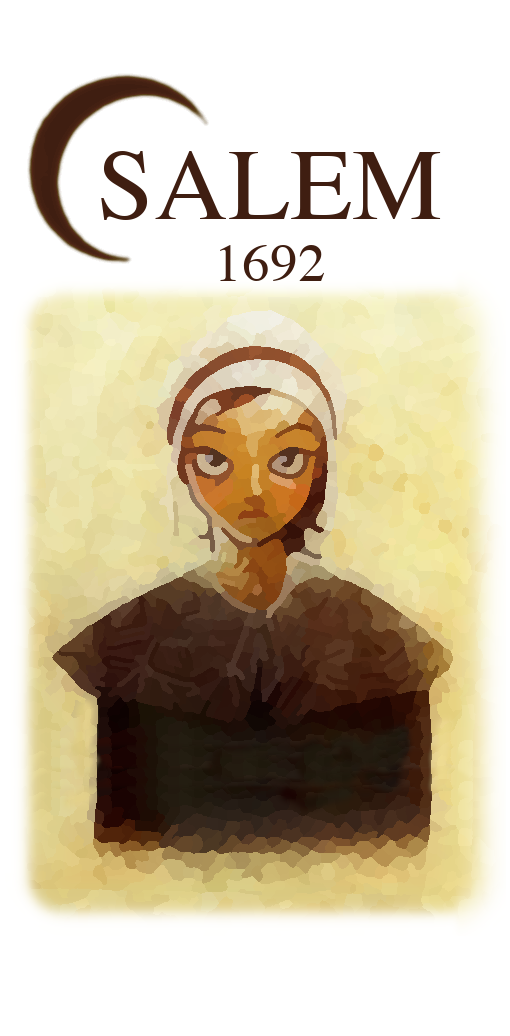
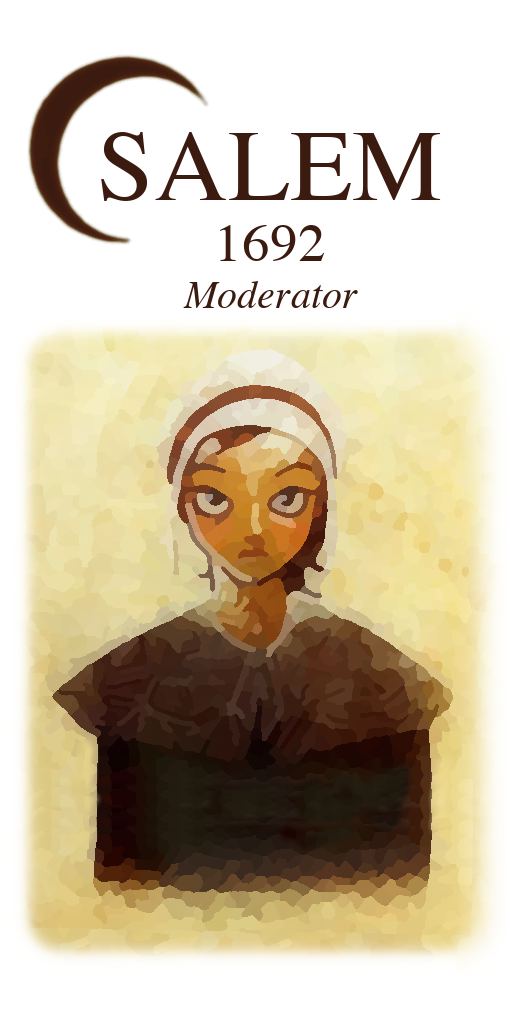
Updated title screen with "Moderator"

diff --git a/css/salem.min.css b/css/salem.min.css
@@ -1,1 +1,1 @@
-@font-face{font-family:CaslonAntique;src:url(../fonts/CaslonAntique.ttf);font-weight:500}@font-face{font-family:CaslonAntique;src:url(../fonts/CaslonAntique-Bold.ttf);font-weight:800}*{margin:0;padding:0}body{height:100vh;width:100vw;overflow:hidden;font-family:CaslonAntique,'Times New Roman',Times,serif;font-size:26px}h1{font-size:64px;font-weight:700;margin-top:20px;margin-bottom:10px}h2{margin-top:10px;margin-bottom:0}.h2-no-margin,h2{font-size:40px;font-weight:700}img.sound-image{margin:50px 0 30px 0}input[type=text]{background-color:#faf8ea;border:2px solid #000;padding-left:5px;font-family:inherit;font-size:28px;width:50%}input[type=text]::placeholder{font-style:italic;color:#bbb}.flex-vertical{display:flex;justify-content:flex-start;align-items:center;flex-direction:column}.spacer{height:25px;min-height:25px}#root{background:url(../images/background-daytime.png) center/cover no-repeat;width:100%;height:100%}div.text-padding{padding:20px;width:calc(100% - 40px);height:calc(100% - 40px)}div.paragraph{margin:10px 20px;line-height:1.15}.nl_NL .page .condensed_nl{font-size:24px}.page{position:absolute;left:0;top:0;width:100%;height:100%;overflow-y:auto;color:#361807}.page button{width:50%;height:40px;font-size:26px;background-color:#eac672;border-width:2px;border-color:#361807;box-shadow:0 10px 20px #00000030,0 6px 6px #0000003b}.page button.widebutton{width:80%;margin-bottom:24px}.page button,.page button.largebutton,.page button.squarebutton{margin-bottom:32px;font-family:inherit;background-repeat:no-repeat}.page button.spacer-top{margin-top:25px}.page button.rotated{transform:rotate(180deg)}.page button.largebutton{width:80%;height:100px}.page button.squarebutton{justify-self:center;margin:10px 5%;width:80%;height:80px}.page button.largebutton.confirm-yes{font-size:80px;color:#172;background-image:url(../images/confirm-yes.png);background-repeat:no-repeat;background-position:center center}.page button.largebutton.confirm-no{font-size:80px;color:#a24;background-image:url(../images/confirm-no.png);background-repeat:no-repeat;background-position:center center}.page button.icon-left{padding-left:24px;background-position:20px center}.page button.icon-right{padding-right:24px;background-position:calc(100% - 20px) center}.page button.icon-only,.page div.button-sized{background-position:center center;width:42px;padding-left:0;padding-right:0;margin-bottom:0}.page button.flag-nl{background-image:url(../images/flag-nl.png)}.page button.flag-de{background-image:url(../images/flag-de.png)}.page button.flag-us{background-image:url(../images/flag-us.png)}.page button.flag-fr{background-image:url(../images/flag-fr.png)}.page button.flag-es{background-image:url(../images/flag-es.png)}.page button.flag-it{background-image:url(../images/flag-it.png)}.page button.icon-pawn{background-image:url(../images/icon-pawn.png)}.page button.icon-gear{background-image:url(../images/icon-gear.png)}.page button.icon-lang{background-image:url(../images/icon-lang.png)}.page button.icon-back{background-image:url(../images/icon-back.png)}.page button.icon-forw{background-image:url(../images/icon-forw.png)}.page button.icon-move{background-image:url(../images/icon-move.png)}.page button.icon-exit{background-image:url(../images/icon-exit.png)}.page button.icon-rot{background-image:url(../images/icon-rot.png)}.page button.icon-trash{background-image:url(../images/icon-cross.png)}.page button.icon-abort{background-image:url(../images/icon-cross.png)}.page button.icon-checked{background-image:url(../images/icon-checked.png)}.page button.icon-unchecked{background-image:url(../images/icon-unchecked.png)}.page button.icon-left.icon-checked,.page button.icon-left.icon-unchecked{background-position:16px center}.buttonpair{width:80%;display:flex;justify-content:space-between}.buttonpair button{width:46%}#title-page{background:url(../images/overlay-title.png) center/contain no-repeat;justify-content:flex-end}#title-page button{margin-bottom:25px}#title-page button.last{margin-bottom:125px}#setup-page{background:url(../images/overlay-gear.png) -190px 120px no-repeat;padding-top:20px}#setup-music-page{background:url(../images/overlay-lute.png) -100px 120px no-repeat}#setup-players-page{background:url(../images/overlay-pawn.png) -190px 120px no-repeat}#setup-players-page .player-entry-item{display:flex;justify-content:space-between;margin-bottom:20px;width:80%}#setup-players-page .player-entry-item .staggered{position:relative;top:31px}#layout-list{width:100%;display:grid;grid-template-columns:1fr 1fr}#layout-list button.squarebutton{text-align:center;vertical-align:middle;line-height:0}#layout-list button.squarebutton.layout-1222::after{content:url(../images/tablelayout-1222.png)}#layout-list button.squarebutton.layout-2221::after{content:url(../images/tablelayout-2221.png)}#layout-list button.squarebutton.layout-1221::after{content:url(../images/tablelayout-1221.png)}#layout-list button.squarebutton.layout-2222::after{content:url(../images/tablelayout-2222.png)}#credits-page{background:url(../images/overlay-scroll.png) -290px 120px no-repeat;width:100%}#credits-page p::first-line{text-indent:0}#credits-page p{width:100%;margin:0;padding-left:20px;text-indent:-20px}#credits-page p span:first-child{font-style:italic}#daytime-page{background:url(../images/overlay-village.png) 90% 20vh/auto 80vh no-repeat}#night-page{background:url(../images/background-night.png) center/cover no-repeat}#night-subpage{background:url(../images/overlay-night.png) top/contain no-repeat;color:#eee}#player-list{width:100%;display:grid;grid-template-columns:1fr 1fr}#player-list .grid-wide{grid-column-start:1;grid-column-end:3;width:40%}#daytime-confess-page{background:url(../images/overlay-hourglass.png) -20vw/70vw no-repeat}
+@font-face{font-family:CaslonAntique;src:url(../fonts/CaslonAntique.ttf);font-weight:500}@font-face{font-family:CaslonAntique;src:url(../fonts/CaslonAntique-Bold.ttf);font-weight:800}*{margin:0;padding:0}body{height:100vh;width:100vw;overflow:hidden;font-family:CaslonAntique,'Times New Roman',Times,serif;font-size:26px}h1{font-size:64px;font-weight:700;margin-top:20px;margin-bottom:10px}h2{margin-top:10px;margin-bottom:0}.h2-no-margin,h2{font-size:40px;font-weight:700}img.sound-image{margin:50px 0 30px 0}input[type=text]{background-color:#faf8ea;border:2px solid #000;padding-left:5px;font-family:inherit;font-size:28px;width:50%}input[type=text]::placeholder{font-style:italic;color:#bbb}.flex-vertical{display:flex;justify-content:flex-start;align-items:center;flex-direction:column}.spacer{height:25px;min-height:25px}#root{background:url(../images/background-daytime.png) center/cover no-repeat;width:100%;height:100%}div.text-padding{padding:20px;width:calc(100% - 40px);height:calc(100% - 40px)}div.paragraph{margin:10px 20px;line-height:1.15}.nl_NL .page .condensed_nl{font-size:24px}.page{position:absolute;left:0;top:0;width:100%;height:100%;overflow-y:auto;color:#361807}.page button{width:50%;height:40px;font-size:26px;background-color:#eac672;border-width:2px;border-color:#361807;box-shadow:0 10px 20px #00000030,0 6px 6px #0000003b}.page button.widebutton{width:80%;margin-bottom:24px}.page button,.page button.largebutton,.page button.squarebutton{margin-bottom:32px;font-family:inherit;background-repeat:no-repeat}.page button.spacer-top{margin-top:25px}.page button.rotated{transform:rotate(180deg)}.page button.largebutton{width:80%;height:100px}.page button.squarebutton{justify-self:center;margin:10px 5%;width:80%;height:80px}.page button.largebutton.confirm-yes{font-size:80px;color:#172;background-image:url(../images/confirm-yes.png);background-repeat:no-repeat;background-position:center center}.page button.largebutton.confirm-no{font-size:80px;color:#a24;background-image:url(../images/confirm-no.png);background-repeat:no-repeat;background-position:center center}.page button.icon-left{padding-left:24px;background-position:20px center}.page button.icon-right{padding-right:24px;background-position:calc(100% - 20px) center}.page button.icon-only,.page div.button-sized{background-position:center center;width:42px;padding-left:0;padding-right:0;margin-bottom:0}.page button.flag-nl{background-image:url(../images/flag-nl.png)}.page button.flag-de{background-image:url(../images/flag-de.png)}.page button.flag-us{background-image:url(../images/flag-us.png)}.page button.flag-fr{background-image:url(../images/flag-fr.png)}.page button.flag-es{background-image:url(../images/flag-es.png)}.page button.flag-it{background-image:url(../images/flag-it.png)}.page button.icon-pawn{background-image:url(../images/icon-pawn.png)}.page button.icon-gear{background-image:url(../images/icon-gear.png)}.page button.icon-lang{background-image:url(../images/icon-lang.png)}.page button.icon-back{background-image:url(../images/icon-back.png)}.page button.icon-forw{background-image:url(../images/icon-forw.png)}.page button.icon-move{background-image:url(../images/icon-move.png)}.page button.icon-exit{background-image:url(../images/icon-exit.png)}.page button.icon-rot{background-image:url(../images/icon-rot.png)}.page button.icon-trash{background-image:url(../images/icon-cross.png)}.page button.icon-abort{background-image:url(../images/icon-cross.png)}.page button.icon-checked{background-image:url(../images/icon-checked.png)}.page button.icon-unchecked{background-image:url(../images/icon-unchecked.png)}.page button.icon-left.icon-checked,.page button.icon-left.icon-unchecked{background-position:16px center}.buttonpair{width:80%;display:flex;justify-content:space-between}.buttonpair button{width:46%}#title-page{background:url(../images/overlay-title.png) center/contain no-repeat;justify-content:flex-end}#title-page button{margin-bottom:25px}#title-page button.last{margin-bottom:100px}#setup-page{background:url(../images/overlay-gear.png) -190px 120px no-repeat;padding-top:20px}#setup-music-page{background:url(../images/overlay-lute.png) -100px 120px no-repeat}#setup-players-page{background:url(../images/overlay-pawn.png) -190px 120px no-repeat}#setup-players-page .player-entry-item{display:flex;justify-content:space-between;margin-bottom:20px;width:80%}#setup-players-page .player-entry-item .staggered{position:relative;top:31px}#layout-list{width:100%;display:grid;grid-template-columns:1fr 1fr}#layout-list button.squarebutton{text-align:center;vertical-align:middle;line-height:0}#layout-list button.squarebutton.layout-1222::after{content:url(../images/tablelayout-1222.png)}#layout-list button.squarebutton.layout-2221::after{content:url(../images/tablelayout-2221.png)}#layout-list button.squarebutton.layout-1221::after{content:url(../images/tablelayout-1221.png)}#layout-list button.squarebutton.layout-2222::after{content:url(../images/tablelayout-2222.png)}#credits-page{background:url(../images/overlay-scroll.png) -290px 120px no-repeat;width:100%}#credits-page p::first-line{text-indent:0}#credits-page p{width:100%;margin:0;padding-left:20px;text-indent:-20px}#credits-page p span:first-child{font-style:italic}#daytime-page{background:url(../images/overlay-village.png) 90% 20vh/auto 80vh no-repeat}#night-page{background:url(../images/background-night.png) center/cover no-repeat}#night-subpage{background:url(../images/overlay-night.png) top/contain no-repeat;color:#eee}#player-list{width:100%;display:grid;grid-template-columns:1fr 1fr}#player-list .grid-wide{grid-column-start:1;grid-column-end:3;width:40%}#daytime-confess-page{background:url(../images/overlay-hourglass.png) -20vw/70vw no-repeat}

diff --git a/css/salem.css b/css/salem.css
@@ -229,7 +229,7 @@ div.paragraph {
 }
 
 #title-page button.last {
-    margin-bottom: 125px;
+    margin-bottom: 100px;
 }
 
 /** ****************************************************************************
